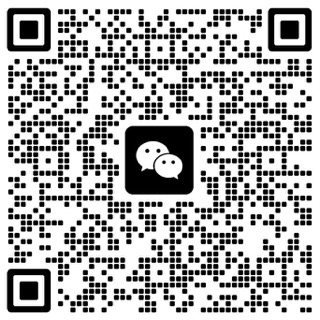
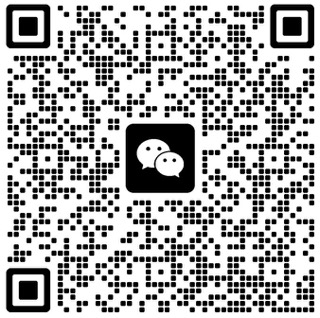
更新：群二维码

diff --git a/src/components/settings/Settings.tsx b/src/components/settings/Settings.tsx
@@ -543,7 +543,7 @@ const handleChange = async <K extends keyof SettingsOptions>(
                                                 className="object-cover"
                                             />
                                         </div>
-                                        <p className="mt-2 text-sm text-neutral-500 dark:text-neutral-400">赞赏码（开发不易，希望能支持一下，求求了 www～）</p>
+                                        <p className="mt-2 text-sm text-neutral-500 dark:text-neutral-400">赞赏码（开发不易，要是能支持一下就太好了 www）</p>
                                     </div>
                                     <div className="flex flex-col items-center opacity-0">
                                         <div className="w-full aspect-square relative rounded overflow-hidden invisible">
@@ -569,7 +569,7 @@ const handleChange = async <K extends keyof SettingsOptions>(
                                                 className="object-cover"
                                             />
                                         </div>
-                                        <p className="mt-2 text-sm text-neutral-500 dark:text-neutral-400">交流群（9 月 26 日前有效）</p>
+                                        <p className="mt-2 text-sm text-neutral-500 dark:text-neutral-400">交流群（实时更新，随时可用）</p>
                                     </div>
                                 </>
                             ) : null}
